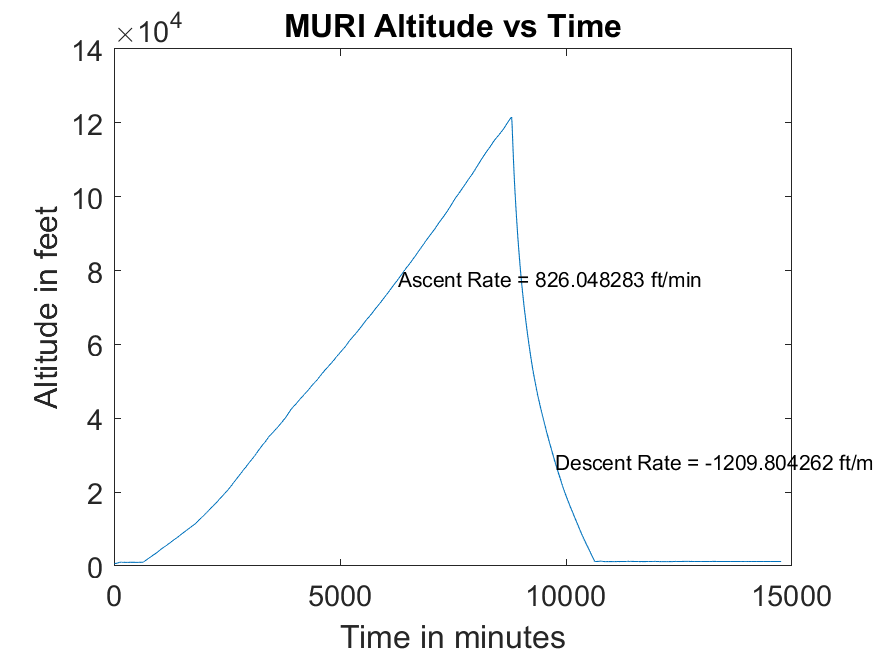
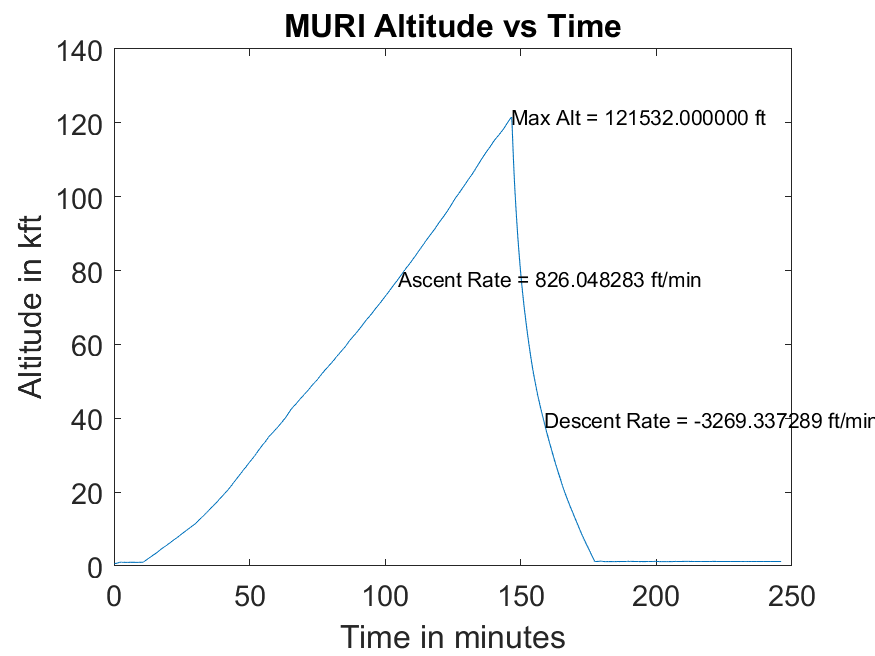
Fixed plot

diff --git a/utils/Alt_vs_Time_Plot.m b/utils/Alt_vs_Time_Plot.m
@@ -21,29 +21,33 @@ for i=1:1:length(Alt)
 end
 Alt=fillmissing(Alt,'linear');
 [~,max_idx]=max(Alt);
-Alt_ascent = Alt(1:max_idx);
-t_ascent = t_Altd(1:max_idx);
-Alt_descent = Alt(max_idx+1:end);
-t_descent = t_Altd(max_idx+1:end);
-h_adot=(mean2(diff(Alt_ascent)./diff(t_ascent)))*60;
-h_ddot=(mean2(diff(Alt_descent)./diff(t_descent)))*60;
+Alt_ascent = (Alt(1:max_idx))/1000;
+t_ascent = (t_Altd(1:max_idx))/60;
+Alt_descent = (Alt(max_idx+1:2200))/1000;
+t_descent = (t_Altd(max_idx+1:2200))/60;
+h_adot=(mean2(diff(Alt_ascent)./diff(t_ascent)))*1000;
+h_ddot=(mean2(diff(Alt_descent)./diff(t_descent)))*1000;
 aidx=length(t_ascent)-500;
-didx=length(t_descent)-1000;
+didx=length(t_descent)-300;
 ta=t_ascent(aidx);
 Alta=Alt_ascent(aidx);
 td=t_descent(didx);
 Altd=Alt_descent(didx);
+maxAlt=Alt_ascent(max_idx);
+tmax=t_ascent(max_idx);
 
 
 %% Plot Data
-plot(t_Altd,Alt);
+plot(t_Altd/60,Alt/1000);
 xlabel("Time in minutes");
-ylabel("Altitude in feet");
+ylabel("Altitude in kft");
 title("MURI Altitude vs Time");
 hdot1=sprintf('Ascent Rate = %f ft/min', h_adot);
 hdot2=sprintf('Descent Rate = %f ft/min', h_ddot);
+MAX=sprintf('Max Alt = %f ft', floor(maxAlt*1000));
 text(ta,Alta,hdot1,'HorizontalAlignment','Left');
 text(td,Altd,hdot2,'HorizontalAlignment','Left');
+text(tmax,maxAlt,MAX,'HorizontalAlignment','Left');
 set(gca, 'FontSize', 14); %make font larger
 strFigure=strcat(fPath2,flightNum,'_Time_vs_Alt.png');
 saveas(gcf, strFigure); %automatically save a figure each time the script is run
